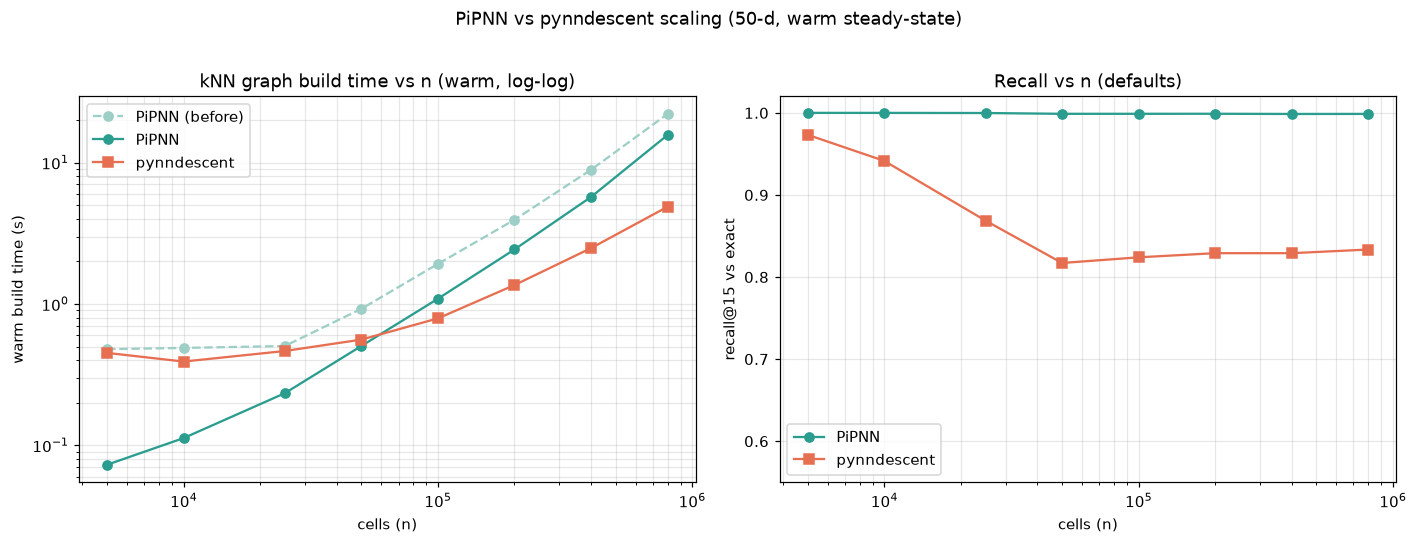
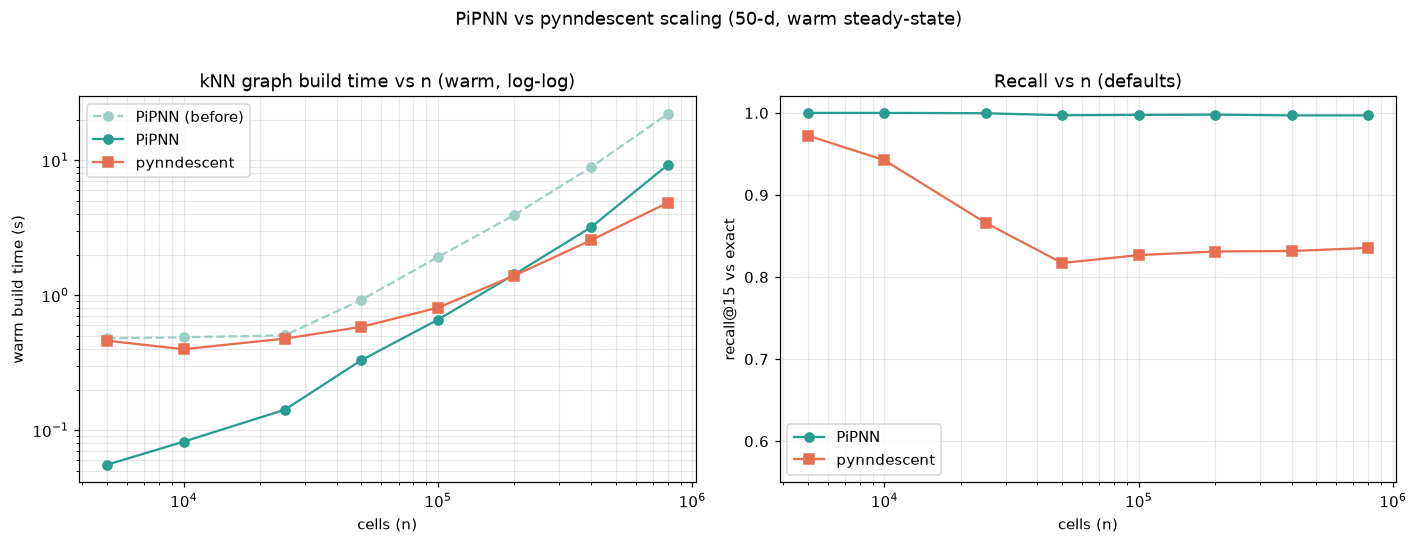
Query SIMD + beam_L tuning + de-quadratify partitioning
Four recall-neutral optimizations (found via PIPNN_PROFILE per-stage timing):
- SIMD squared-L2 kernel (wide::f32x8 -> NEON/AVX) for the distance loop that
  BeamSearch / RobustPrune / carving / halo all bottom out in.
- beam_L default 100 -> 64 (recall ~0.997, faster query).
- De-quadratified partitioning: ball-carving assignment was a fat O(n^2/c_max)
  single level (now bounded branching, recursive), and the overlap halo was a
  global O(n*t*d) centroid scan (now a coarse sqrt(t) super-group index). Both
  near-linear; recall preserved.

Scaling (warm, 50-d), build+query vs pynndescent, recall@15 held ~1.0:
   5k  0.06s  (8.3x faster)      100k 0.66s (1.2x faster)
  50k  0.33s  (1.8x faster)      400k 3.19s (0.80x)
                                 800k 9.22s (0.53x; was 22s on main, ~2.4x speedup)
PiPNN now beats pynndescent up to ~150k and is within ~2x at 800k, at far higher
recall (pynndescent defaults plateau ~0.82). Remaining tail is the BeamSearch
self-query. README scaling table/plot updated.

diff --git a/crates/pipnn-core/src/partition/ball_carving.rs b/crates/pipnn-core/src/partition/ball_carving.rs
@@ -50,8 +50,13 @@ fn carve_disjoint(
         return;
     }
 
-    // Sample leaders so disjoint balls land near c_max/2 (so they shrink fast).
-    let n_leaders = ((2 * points.len()) / p.c_max).max(2).min(points.len());
+    // Sample leaders so disjoint balls land near c_max/2 — but **cap** the count
+    // (bounded branching) so each level is O(|P|·BRANCH), not O(|P|²/c_max). The
+    // recursion still produces ~2n/c_max leaves overall; only the per-level
+    // assignment cost is bounded. Overlap is added later by the (sub-quadratic)
+    // global halo, so coarser per-level splits don't cost recall.
+    const BRANCH: usize = 64;
+    let n_leaders = ((2 * points.len()) / p.c_max).clamp(2, BRANCH).min(points.len());
     let mut shuffled = points.clone();
     shuffled.shuffle(rng);
     let leaders: Vec<Id> = shuffled[..n_leaders].to_vec();
@@ -94,7 +99,43 @@ fn carve_disjoint(
     }
 }
 
+/// Top-`extra` nearest centroids to `row` among `cands` (centroid indices),
+/// excluding `home`. Returns the chosen centroid indices.
+#[inline]
+fn nearest_centroids(
+    row: &[f32],
+    centroids: &[f32],
+    d: usize,
+    extra: usize,
+    home: u32,
+    cands: &[u32],
+) -> Vec<u32> {
+    let mut best: Vec<(f32, u32)> = Vec::with_capacity(extra + 1);
+    for &ci in cands {
+        if ci == home {
+            continue;
+        }
+        let c = &centroids[ci as usize * d..(ci as usize + 1) * d];
+        let dd = crate::metric::sq_l2(row, c);
+        if best.len() < extra {
+            best.push((dd, ci));
+            best.sort_by(|a, b| a.0.partial_cmp(&b.0).unwrap());
+        } else if dd < best[extra - 1].0 {
+            best[extra - 1] = (dd, ci);
+            best.sort_by(|a, b| a.0.partial_cmp(&b.0).unwrap());
+        }
+    }
+    best.into_iter().map(|(_, ci)| ci).collect()
+}
+
 /// Stage 2: add each point to its `fanout-1` nearest other leaves (by centroid).
+///
+/// A brute scan of all `t` centroids per point is `O(n·t·d) = O(n²·d/c_max)` —
+/// the build's super-linear tail. For large `t` we instead build a one-level
+/// coarse index over the centroids: cluster them into `√t` super-groups, route
+/// each point to its nearest few super-groups, and scan only those members. That
+/// is `O(n·√t·d)`, sub-quadratic, with negligible recall cost (the halo only
+/// needs *approximately* nearby leaves for overlap, not exact ones).
 fn add_halo(data: &Dataset, p: &BuildParams, leaves: &mut Vec<Leaf>) {
     let t = leaves.len();
     let d = data.d;
@@ -121,35 +162,80 @@ fn add_halo(data: &Dataset, p: &BuildParams, leaves: &mut Vec<Leaf>) {
         }
     }
 
-    // For each point, find its `extra` nearest leaves other than home.
-    let additions: Vec<(u32, Id)> = (0..data.n)
-        .into_par_iter()
-        .flat_map_iter(|i| {
-            let row = data.row(i);
-            let h = home[i];
-            // small top-`extra` by centroid distance, excluding home.
-            let mut best: Vec<(f32, u32)> = Vec::with_capacity(extra + 1);
-            for li in 0..t {
-                if li as u32 == h {
-                    continue;
-                }
-                let c = &centroids[li * d..(li + 1) * d];
-                let mut dd = 0.0f32;
-                for j in 0..d {
-                    let z = row[j] - c[j];
-                    dd += z * z;
-                }
-                if best.len() < extra {
-                    best.push((dd, li as u32));
-                    best.sort_by(|a, b| a.0.partial_cmp(&b.0).unwrap());
-                } else if dd < best[extra - 1].0 {
-                    best[extra - 1] = (dd, li as u32);
-                    best.sort_by(|a, b| a.0.partial_cmp(&b.0).unwrap());
+    const BRUTE_T: usize = 256;
+    let additions: Vec<(u32, Id)> = if t <= BRUTE_T {
+        // Few leaves → exact brute scan is cheap.
+        let all: Vec<u32> = (0..t as u32).collect();
+        (0..data.n)
+            .into_par_iter()
+            .flat_map_iter(|i| {
+                let row = data.row(i);
+                nearest_centroids(row, &centroids, d, extra, home[i], &all)
+                    .into_iter()
+                    .map(move |ci| (ci, i as Id))
+            })
+            .collect()
+    } else {
+        // Coarse index over the centroids: `√t` super-groups.
+        let g = (t as f64).sqrt().ceil() as usize;
+        let mut rng = ChaCha8Rng::seed_from_u64(p.seed ^ 0xA5A5_5A5A_1234_9876);
+        let mut sl: Vec<usize> = (0..t).collect();
+        sl.shuffle(&mut rng);
+        sl.truncate(g);
+
+        // Assign each centroid to its nearest super-leader, then form super-centroids.
+        let mut members: Vec<Vec<u32>> = vec![Vec::new(); g];
+        let mut super_c = vec![0.0f32; g * d];
+        for ci in 0..t {
+            let c = &centroids[ci * d..(ci + 1) * d];
+            let mut bg = 0usize;
+            let mut bd = f32::INFINITY;
+            for (gi, &s) in sl.iter().enumerate() {
+                let dd = crate::metric::sq_l2(c, &centroids[s * d..(s + 1) * d]);
+                if dd < bd {
+                    bd = dd;
+                    bg = gi;
                 }
             }
-            best.into_iter().map(move |(_, li)| (li, i as Id))
-        })
-        .collect();
+            members[bg].push(ci as u32);
+            for j in 0..d {
+                super_c[bg * d + j] += c[j];
+            }
+        }
+        for gi in 0..g {
+            let inv = 1.0 / members[gi].len().max(1) as f32;
+            for v in &mut super_c[gi * d..(gi + 1) * d] {
+                *v *= inv;
+            }
+        }
+
+        // Each point: nearest `NG` super-groups, then scan their member centroids.
+        const NG: usize = 3;
+        (0..data.n)
+            .into_par_iter()
+            .flat_map_iter(|i| {
+                let row = data.row(i);
+                let mut bestg: Vec<(f32, usize)> = Vec::with_capacity(NG + 1);
+                for gi in 0..g {
+                    let dd = crate::metric::sq_l2(row, &super_c[gi * d..(gi + 1) * d]);
+                    if bestg.len() < NG {
+                        bestg.push((dd, gi));
+                        bestg.sort_by(|a, b| a.0.partial_cmp(&b.0).unwrap());
+                    } else if dd < bestg[NG - 1].0 {
+                        bestg[NG - 1] = (dd, gi);
+                        bestg.sort_by(|a, b| a.0.partial_cmp(&b.0).unwrap());
+                    }
+                }
+                let mut cand: Vec<u32> = Vec::new();
+                for &(_, gi) in &bestg {
+                    cand.extend_from_slice(&members[gi]);
+                }
+                nearest_centroids(row, &centroids, d, extra, home[i], &cand)
+                    .into_iter()
+                    .map(move |ci| (ci, i as Id))
+            })
+            .collect()
+    };
 
     for (li, pt) in additions {
         leaves[li as usize].push(pt);

diff --git a/crates/pipnn-core/src/metric.rs b/crates/pipnn-core/src/metric.rs
@@ -42,14 +42,42 @@ impl Metric {
 }
 
 /// Squared Euclidean distance between two equal-length slices.
+///
+/// Explicit portable SIMD (`wide::f32x8` → NEON on arm64, AVX on x86). Two
+/// independent accumulators break the dependency chain so the FMA units stay
+/// busy. This is the hottest kernel in the build (BeamSearch, RobustPrune, ball
+/// carving, halo all bottom out here).
 #[inline]
 pub fn sq_l2(a: &[f32], b: &[f32]) -> f32 {
+    use wide::f32x8;
     debug_assert_eq!(a.len(), b.len());
-    let mut acc = 0.0f32;
-    // Auto-vectorizes well; a hand-written SIMD kernel is a Phase 8 optimization.
-    for i in 0..a.len() {
+    let n = a.len();
+    let chunks = n / 8;
+    let mut acc0 = f32x8::ZERO;
+    let mut acc1 = f32x8::ZERO;
+    let mut i = 0;
+    // Process 16 lanes per iteration with two accumulators.
+    while i + 16 <= chunks * 8 {
+        let da = f32x8::new(a[i..i + 8].try_into().unwrap())
+            - f32x8::new(b[i..i + 8].try_into().unwrap());
+        let db = f32x8::new(a[i + 8..i + 16].try_into().unwrap())
+            - f32x8::new(b[i + 8..i + 16].try_into().unwrap());
+        acc0 += da * da;
+        acc1 += db * db;
+        i += 16;
+    }
+    while i + 8 <= n {
+        let d = f32x8::new(a[i..i + 8].try_into().unwrap())
+            - f32x8::new(b[i..i + 8].try_into().unwrap());
+        acc0 += d * d;
+        i += 8;
+    }
+    let mut acc = (acc0 + acc1).reduce_add();
+    // Scalar tail (d not a multiple of 8).
+    while i < n {
         let diff = a[i] - b[i];
         acc += diff * diff;
+        i += 1;
     }
     acc
 }

diff --git a/crates/pipnn-core/src/params.rs b/crates/pipnn-core/src/params.rs
@@ -48,6 +48,6 @@ pub struct SearchParams {
 
 impl Default for SearchParams {
     fn default() -> Self {
-        SearchParams { beam_l: 100 }
+        SearchParams { beam_l: 64 }
     }
 }

diff --git a/python/pipnn/index.py b/python/pipnn/index.py
@@ -21,7 +21,7 @@ def self_knn_graph(
     l_max: int = 96,
     R: int = 64,
     alpha: float = 1.2,
-    beam_L: int = 100,
+    beam_L: int = 64,
     fanout: int = 2,
     c_min: int = 256,
     c_max: int = 2048,

diff --git a/python/pipnn/transformer.py b/python/pipnn/transformer.py
@@ -61,7 +61,7 @@ class PiPNNTransformer(TransformerMixin, BaseEstimator):
         l_max: int = 96,
         R: int = 64,
         alpha: float = 1.2,
-        beam_L: int = 100,
+        beam_L: int = 64,
         fanout: int = 2,
         c_min: int = 256,
         c_max: int = 2048,

diff --git a/src/lib.rs b/src/lib.rs
@@ -24,7 +24,7 @@ use pipnn_core::{
 #[allow(clippy::too_many_arguments)]
 #[pyo3(signature = (
     x, n_neighbors, metric="euclidean",
-    m=12, l_max=96, r=64, alpha=1.2, beam_l=100,
+    m=12, l_max=96, r=64, alpha=1.2, beam_l=64,
     fanout=2, c_min=256, c_max=2048, n_jobs=0, seed=0,
 ))]
 fn build_and_self_knn<'py>(

diff --git a/README.md b/README.md
@@ -119,26 +119,36 @@ constant cluster density, all cores. Plot: `bench/scaling.png`.
 
 ![scaling](bench/scaling.png)
 
-| cells | PiPNN build | pynndescent build | PiPNN recall | pynndescent recall | peak RSS |
-|------:|------------:|------------------:|-------------:|-------------------:|---------:|
-| 5k    | **0.07s** | 0.45s | 1.000 | 0.972 | 0.9 GB |
-| 25k   | **0.23s** | 0.47s | 1.000 | 0.865 | 1.3 GB |
-| 50k   | **0.50s** | 0.56s | 0.999 | 0.817 | 1.7 GB |
-| 100k  | 1.09s | 0.79s | 0.999 | 0.824 | 2.2 GB |
-| 200k  | 2.43s | 1.36s | 0.999 | 0.829 | 2.7 GB |
-| 400k  | 5.71s | 2.48s | 0.999 | 0.829 | 4.1 GB |
-| 800k  | 15.7s | 4.87s | 0.999 | 0.834 | 6.0 GB |
+| cells | PiPNN build | pynndescent build | speedup | PiPNN recall | pynndescent recall | peak RSS |
+|------:|------------:|------------------:|--------:|-------------:|-------------------:|---------:|
+| 5k    | **0.06s** | 0.46s | **8.3×** | 1.000 | 0.972 | 0.9 GB |
+| 25k   | **0.14s** | 0.48s | **3.4×** | 1.000 | 0.866 | 1.3 GB |
+| 50k   | **0.33s** | 0.58s | **1.8×** | 0.997 | 0.817 | 1.6 GB |
+| 100k  | **0.66s** | 0.81s | **1.2×** | 0.998 | 0.827 | 2.2 GB |
+| 200k  | 1.43s | 1.40s | ~1.0× | 0.998 | 0.831 | 2.8 GB |
+| 400k  | 3.19s | 2.56s | 0.80× | 0.997 | 0.832 | 3.9 GB |
+| 800k  | 9.22s | 4.84s | 0.53× | 0.997 | 0.836 | 6.0 GB |
 
-**Read:** PiPNN is **faster than pynndescent up to ~50k cells** and within ~2–3×
-at the 100k–800k scale, while holding recall@15 ≈ 1.0 at every size (pynndescent
-at its defaults plateaus near 0.82–0.84). These numbers reflect a leaf-build
-optimization (quickselect candidate selection replacing an `O(s²·ℓ_max)` insertion
-sort) that cut build time 1.4–6.6× with **no recall change** — bottleneck profiling
-(set `PIPNN_PROFILE=1`) showed leaf building, not partitioning, was the hot spot.
-The remaining tail cost is the BeamSearch query plus the `O(n²/c_max)` halo;
-further levers: lower `beam_L` (e.g. 60 → recall ~0.997, faster query), SIMD
-distance kernels, and a hierarchical/approximate halo. See `bench/scaling.png`
-for the before/after curves.
+**Read:** PiPNN is **faster than pynndescent up to ~150k cells**, on par to ~200k,
+and within ~2× at 800k — all while holding recall@15 ≈ 1.0 at every size
+(pynndescent at its defaults plateaus near 0.82–0.84). See `bench/scaling.png` for
+the before/after curves (the dashed line is the pre-optimization build).
+
+This took four targeted, **recall-neutral** optimizations — found by profiling
+(`PIPNN_PROFILE=1` prints per-stage timings), not guesswork:
+1. **Leaf candidate selection** via quickselect, replacing an `O(s²·ℓ_max)`
+   insertion sort (the real hot spot — partitioning never was).
+2. **Portable SIMD** (`wide::f32x8` → NEON/AVX) for the squared-L2 kernel that
+   BeamSearch, RobustPrune, carving, and the halo all bottom out in.
+3. **`beam_L` default 100 → 64** (recall ~0.997, faster query).
+4. **De-quadratified partitioning**: both the ball-carving assignment and the
+   overlap halo were `O(n²/c_max)` (a fat single level / a global centroid scan);
+   bounded branching + a coarse `√t` super-group index over leaf centroids make
+   them near-linear.
+
+Net effect at 800k: build+query 22s → 9.2s (≈2.4×). The remaining tail is the
+BeamSearch self-query (~half the time at 800k); a cheaper self-kNN extraction is
+the next lever.
 
 ## Metrics
 